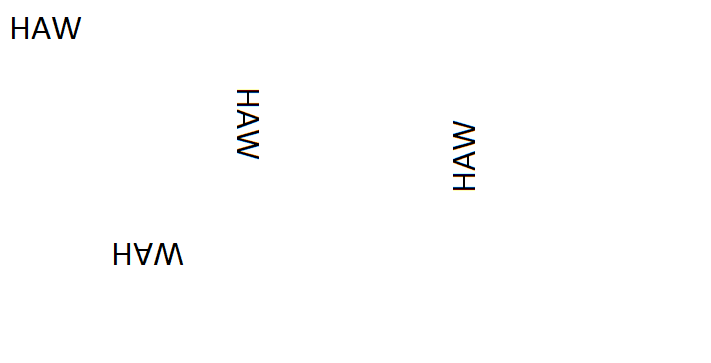
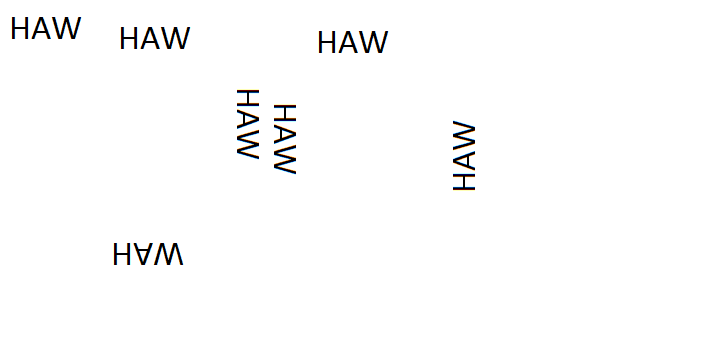
-Added a new test image ... . and improved the algorithm to work on different angles -- Ivan said he's done for today.., Alexei should probably go thru this

Changed region(s): [[0.3713, 0.2727, 0.4332, 0.4848], [0.1547, 0.0606, 0.2785, 0.1515], [0.4332, 0.0909, 0.557, 0.1515]]

diff --git a/HoughTransform/houghLines/Imagedetect.m b/HoughTransform/houghLines/Imagedetect.m
@@ -49,7 +49,7 @@ end
 %testImage = [zeros(height, width); image];
 
 %testImage = image;
-testImage=rgb2gray(imread('HAWRotations.png'));
+testImage=rgb2gray(imread('Publication3.png'));
 cannyTest = edge( testImage, 'canny');
 [height, width]  = size (testImage);
 votingSpace = zeros(3*height, 3*width,length(Phi));
@@ -78,10 +78,11 @@ gaussianFilter = fspecial('gaussian', [13,13], 3);
 Gm = abs(gradient(votingSpace));
 preMaximus = imfilter(Gm, gaussianFilter);
 
-votingThreshold=0.8*max(max(max(preMaximus)));
+
 [height, width] = size(votingSpace(:,:,1));
 
 for angle=1:length(Phi)
+   votingThreshold=0.9*max(max(preMaximus(:,:,angle))); 
     for xi=1:height
         for yi=1:width
             if (preMaximus(xi,yi,angle)< votingThreshold)
@@ -126,6 +127,7 @@ end
 figure (3)
 newImage=sum(newImage,3);
 imshow(uint8(newImage(height:2*height,width:2*width)));
+%imshow(uint8(newImage));
 
 %figure(4)
 %imshow(preMaximus);
